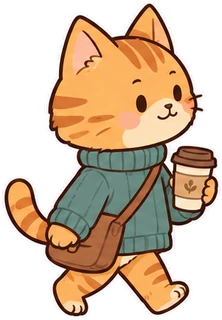
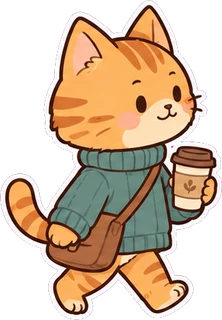
🐾 가판대 손님 5종 새 그림 · 손님마다 키 (판 102)
Claude-Session: https://claude.ai/code/session_01WWoPCKk2gGNwj6qV14RFC8

diff --git a/index.html b/index.html
@@ -707,7 +707,7 @@ body{background:
 .village::after{content:"";position:absolute;left:0;right:0;bottom:0;height:110px;pointer-events:none;z-index:1;
   background:linear-gradient(rgba(18,21,38,0),rgba(18,21,38,.55) 55%,var(--night))}
 .village > .trail{z-index:3}
-/* 🌼 들꽃 초원 (10-25 판 101) — 숲 그림 아래 잔디밭에 반복 무늬만 얹어요. 집 배치·마을 높이는 그대로
+/* 🌼 들꽃 초원 (10-25 판 102) — 숲 그림 아래 잔디밭에 반복 무늬만 얹어요. 집 배치·마을 높이는 그대로
    .village 에 isolation 을 줘서, 초원(z -1)이 마을 배경 바로 위 · 모든 내용 아래에 깔려요. ::before/::after 와는 따로예요 */
 .village{isolation:isolate}
 .village > .meadow{position:absolute;left:0;right:0;bottom:0;z-index:-1;pointer-events:none;
@@ -1991,7 +1991,7 @@ button.wb-slot{font:inherit;color:inherit;cursor:pointer}
 .house .nm.plate-pets,.wnm.plate-pets,.plate-chip.plate-pets{background:linear-gradient(#FFE3C4,#F2B47E);color:#5A3215;border-color:#9A5A2A;box-shadow:0 0 10px rgba(255,190,120,.6),0 3px 6px rgba(0,0,0,.25)}
 .house .nm.plate-fairy,.wnm.plate-fairy,.plate-chip.plate-fairy{background:linear-gradient(#E6FFF6,#B9E7FF 55%,#E8C9FF);color:#2E3D6B;border-color:#7B8FD6;box-shadow:0 0 12px rgba(170,220,255,.75),0 3px 6px rgba(0,0,0,.25)}
 .house .nm.plate-ribbon::before,.house .nm.plate-ribbon::after{background:#C25A85}
-/* 🏷 그림 이름표 (10-25 판 101) — plates/키.webp = 왼쪽 장식 | 늘어나는 가운데 | 오른쪽 장식. 가운데만 이름 길이만큼 늘어나요 */
+/* 🏷 그림 이름표 (10-25 판 102) — plates/키.webp = 왼쪽 장식 | 늘어나는 가운데 | 오른쪽 장식. 가운데만 이름 길이만큼 늘어나요 */
 .house .nm[class*="plate-"],.wnm[class*="plate-"],.plate-chip[class*="plate-"]{background:none!important;box-shadow:none!important;animation:none!important;border-radius:0; border-style:solid;border-color:transparent;border-image-repeat:stretch;line-height:1.25;text-shadow:none;white-space:nowrap; border-width:0 var(--pr) 0 var(--pl);border-image-width:0 var(--pr) 0 var(--pl);padding:var(--pt) .1em var(--pb)}
 .house .nm[class*="plate-"]::before,.house .nm[class*="plate-"]::after{display:none}
 .house.lit .nm[class*="plate-"]{filter:drop-shadow(0 0 6px rgba(255,200,90,.9))}
@@ -3153,7 +3153,7 @@ const NEW_WINS2 = [["win_lace2", "🪟", "넓은 레이스 커튼 창문", 200, 
 { const at = DEFAULT_SHOP.findIndex(x=>x.code==='win_potion')+1 || DEFAULT_SHOP.length; DEFAULT_SHOP.splice(at, 0, ...NEW_WINS2.map(([code,emoji,name,price,w,h])=>({code,emoji,name,price,w,h,active:true,category:'furniture',icon:code,layer:'furniture'}))); NEW_WINS2.forEach(r=>FURN_IMG.add(r[0])); }
 const WIN2 = new Set(NEW_WINS2.map(r=>r[0]));   // 넓은 창문은 칸 안에 딱 맞게 (위로 크게 안 그려요)
 // 🛋 새 가구 66종 (10-13, newfurn66.sql 과 같아요) — code, emoji, 이름, 가격, 가로, 세로, 분류
-// 🌙 별밤 서재 세트 (10-25 판 101) — 가구 10(전부 2×2) · 소품 12, 코인으로 사요. 그림 furn/st_*.webp
+// 🌙 별밤 서재 세트 (10-25 판 102) — 가구 10(전부 2×2) · 소품 12, 코인으로 사요. 그림 furn/st_*.webp
 const NEW_STUDY = [
   ["st_moonchair","🌙","초승달 안락의자",280,2,2,"furniture"],
   ["st_moonshelf","📚","초승달 책장",360,2,2,"furniture"],
@@ -6244,7 +6244,7 @@ const VOID_BG_VER = {base:'?v=3'};   // 같은 이름으로 그림을 바꾸면 
 const voidBgCSS = k => { const key = k in VOID_BGS ? k : 'base'; return `url(void/${key}.webp${VOID_BG_VER[key]||''}) center/cover no-repeat, ${VOID_BGS[key].grad}`; };
 const VOID_FARM_BG = 'url(void/farm.webp?v=2) center/cover no-repeat, url(bg/Pet_background.webp) center/cover no-repeat, linear-gradient(#24124F 0%,#5B3E9A 38%,#4F8A5E 39%,#2D5A3A 100%)';
 let VOID = null, VSEL = null, VROT = 0, VHOVER = null, vbagTab = 'void', vcraftTab = '';
-/* 🚪 아공간 방 (10-25 판 101 · voidrooms.sql) — 서버는 가구 전체 + 방 목록을 줘요.
+/* 🚪 아공간 방 (10-25 판 102 · voidrooms.sql) — 서버는 가구 전체 + 방 목록을 줘요.
    화면은 지금 고른 방(VROOM)만 보이게 items·bg·fx 를 그 방 것으로 바꿔 끼워요 (_all 에 전체가 있어요) */
 let VROOM = 0; try{ VROOM = +(localStorage.getItem('majam-vroom')||0) || 0; }catch(e){}
 const VROOM_NAMES = ['첫 번째 방', '전시실', '보물 창고', '비밀 방'];
@@ -6401,7 +6401,7 @@ function voidCraftHTML(V){
     <div class="vcraft">${cards}</div>
     ${walls.length ? `<h4 style="margin-top:.8rem">${vcraftTab==='glass' ? `🔮 별유리 가구 <span class="small">도안 없이 💠로 바로 만들어요 · 어느 배경에나 어울리는 아공간 기본 가구예요</span>` : `🧱 ${esc(b.name)} 벽 <span class="small">도안 없이 💠로 바로 만들어요 · 세트에는 안 들어가요 · 가로로 놓을 때 제일 예뻐요</span>`}</h4><div class="vcraft">${walls.map(card).join('')}</div>` : ''}`;
 }
-/* 🔕 확인 창 끄기 (10-25 판 101, 주민 건의) — 켜면 가구 사기·아공간 가구 만들기·치우기 때 묻는 창과 알림을 건너뛰어요. 브라우저마다 기억 */
+/* 🔕 확인 창 끄기 (10-25 판 102, 주민 건의) — 켜면 가구 사기·아공간 가구 만들기·치우기 때 묻는 창과 알림을 건너뛰어요. 브라우저마다 기억 */
 const QUIET = () => { try{ return localStorage.getItem('majam-quiet')==='1'; }catch(e){ return false; } };
 function quietLabel(){ document.querySelectorAll('[data-quiet]').forEach(b=>{ const q = QUIET(); b.textContent = q ? '🔕 확인 창 꺼짐' : '🔔 확인 창 켜짐'; b.classList.toggle('on', q);
   b.title = q ? '가구를 살 땐 1개씩 바로 사고, 묻는 창·알림 없이 바로 해요. 누르면 다시 켜져요' : '누르면 가구 사기·만들기·치우기 때 묻는 창과 알림을 건너뛰어요'; }); }
@@ -7600,7 +7600,7 @@ async function showTruckReport(){   // 📬 우편함으로 모아요
 // 마을(숲 그림의 나무 아래)에도 와 있는 간식차를 세워 둬요 — 누르면 바로 마시기·먹기
 function renderVillageTrucks(){
   const el = document.getElementById('vtrucks'); if(!el) return;
-  const cafe = `<div class="vcafe" title="내 카페 (음료 가판대)"><img class="vshop" src="bg/cafe_shop.webp" alt="숲속 카페" draggable="false" data-cafe-go><button class="vpill" type="button" data-cafe-go>☕ 내 카페 열기</button></div>`;   // ☕ 카페 건물 (10-25 판 101) — 누르면 음료 가판대
+  const cafe = `<div class="vcafe" title="내 카페 (음료 가판대)"><img class="vshop" src="bg/cafe_shop.webp" alt="숲속 카페" draggable="false" data-cafe-go><button class="vpill" type="button" data-cafe-go>☕ 내 카페 열기</button></div>`;   // ☕ 카페 건물 (10-25 판 102) — 누르면 음료 가판대
   el.innerHTML = cafe + ['coffee','dessert'].map(kind=>{
     const t = TRUCKS.find(x=>x.kind===kind); if(!t) return '';
     const K = TRUCK_KIND[kind], done = t.my_reward!=null;
@@ -7838,7 +7838,7 @@ const NAMEPLATE_DEF = {wood:{emoji:'🪵', name:'나무'}, snow:{emoji:'❄',
   pets:{emoji:'🐾', name:'펫 도감', front:true, how:'펫 도감 일반·희귀·전설 전부'}, fairy:{emoji:'🧚', name:'요정 도감', front:true, how:'요정 도감 전부'},
 };
 // 이름 앞 그림 (내 집은 내 명찰, 이웃은 NAMEPLATE_OF)
-const plateEmo = p => '';   // 🏷 그림 이름표라 이름 앞 그림은 뺐어요 (10-25 판 101)
+const plateEmo = p => '';   // 🏷 그림 이름표라 이름 앞 그림은 뺐어요 (10-25 판 102)
 async function checkPlates(){
   if(!api.checkPlates) return;
   try{ const r0 = await api.checkPlates(), r = Array.isArray(r0) ? r0[0] : r0, fresh = (r && r.fresh) || [];
@@ -8695,7 +8695,7 @@ roomEl.addEventListener('mouseover', e=>{
   if(JSON.stringify(h)!==JSON.stringify(hover)){ hover=h; if(selected) renderMyHouse(); }
 });
 roomEl.addEventListener('mouseleave', ()=>{ hover=null; if(selected) renderMyHouse(); });
-// 🖐 아공간 가구도 끌어서 옮기기 (10-25 판 101, 주민 건의) — 마우스는 바로, 폰은 꾹 눌렀다가(0.3초)
+// 🖐 아공간 가구도 끌어서 옮기기 (10-25 판 102, 주민 건의) — 마우스는 바로, 폰은 꾹 눌렀다가(0.3초)
 var VDRAG = null, VDRAG_AT = 0;
 function vdragClear(){ document.querySelectorAll('#voidStage .tile.pv-ok,#voidStage .tile.pv-no').forEach(t=>t.classList.remove('pv-ok','pv-no')); }
 function vdragStart(){
@@ -9491,10 +9491,10 @@ setInterval(()=>{ if(modePick()==='auto' && applyMode()) toast(isDay() ? '☀
 start();
 
 </script>
-<script src="stall.js?v=1025d"></script>
+<script src="stall.js?v=1025e"></script>
 <script src="greenhouse.js?v=1025c"></script>
 <script src="publisher.js?v=1025b"></script>
 <script src="merchant.js?v=1025f"></script>
-<p class="site-ver">마감의 숲 · 10-25 판 101</p>
+<p class="site-ver">마감의 숲 · 10-25 판 102</p>
 </body>
 </html>

diff --git a/stall.js b/stall.js
@@ -458,11 +458,11 @@ const GUESTS = [
   {img:'wolf', lines:['마감 전에 한 잔이면 충분하죠.','원고는요? …아, 음료 먼저.','작가님 가판대라니, 감동입니다.']},
   {img:'demon', lines:['고향의 맛이군…','이쪽 세계 음료도 나쁘지 않아.','흠, 다음에 또 오지.']},
   // 10-25 새 손님
-  {img:'cat', lines:['테이크아웃 되죠? 냥.','산책길엔 역시 한 잔!','오늘 원고 술술 풀릴 것 같아요.']},
-  {img:'deer', lines:['빵이랑 같이 먹으면 딱이겠어요.','숲 끝까지 들고 갈게요!','향이 너무 좋아요~']},
-  {img:'frog', lines:['개굴, 우리 가게 메뉴로 넣고 싶어요!','쟁반에 하나 더 올려 주세요.','비 오는 날 생각나는 맛이에요.']},
-  {img:'girl', lines:['책 읽으면서 마실게요.','여기 단골 될 것 같아요!','오늘 마감 끝나면 또 올게요.']},
-  {img:'dragon', lines:['쿠키랑 먹으면 최고예요!','불 안 뿜고 마실게요. 약속!','배낭에 하나 더 넣어 가도 돼요?']},
+  {img:'cat', s:0.79, lines:['테이크아웃 되죠? 냥.','산책길엔 역시 한 잔!','오늘 원고 술술 풀릴 것 같아요.']},
+  {img:'deer', s:1.14, lines:['빵이랑 같이 먹으면 딱이겠어요.','숲 끝까지 들고 갈게요!','향이 너무 좋아요~']},
+  {img:'frog', s:0.81, lines:['개굴, 우리 가게 메뉴로 넣고 싶어요!','쟁반에 하나 더 올려 주세요.','비 오는 날 생각나는 맛이에요.']},
+  {img:'girl', s:0.95, lines:['책 읽으면서 마실게요.','여기 단골 될 것 같아요!','오늘 마감 끝나면 또 올게요.']},
+  {img:'dragon', s:0.85, lines:['쿠키랑 먹으면 최고예요!','불 안 뿜고 마실게요. 약속!','배낭에 하나 더 넣어 가도 돼요?']},
 ];
 const TAG_LINES = {
   hell:['음료가 왜 이렇게 매워요?!','잠이 0.1초 만에 깼습니다.','마감 직전 뇌를 태우는 맛!'],
@@ -486,7 +486,8 @@ function spawnGuest(){
   const d = queue.shift() || null; if(!d && Math.random()<.35) return;
   const g = pick(GUESTS), el = document.createElement('div'), from = Math.random()<.5;
   el.className = 's-guest walk' + (from ? '' : ' left');
-  el.innerHTML = `<img src="stall/guest_${g.img}.webp" alt="">`;
+  if(g.s) el.style.height = (16*g.s).toFixed(1)+'cqw';   // 🐾 손님마다 키 (10-25 새 그림)
+  el.innerHTML = `<img src="stall/guest_${g.img}.webp?v=2" alt="">`;
   el.style.left = from ? '-10%' : '110%'; street.appendChild(el); walking++;
   const stopX = 62 + Math.random()*16, dur = s => { el.style.transitionDuration = s+'s'; };
   requestAnimationFrame(()=>requestAnimationFrame(()=>{ dur(3.6); el.style.left = stopX+'%'; }));
